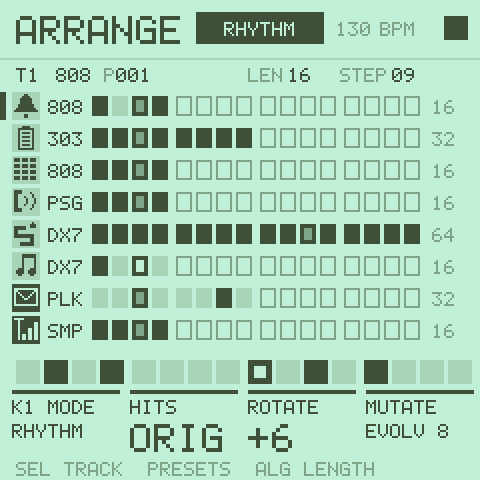
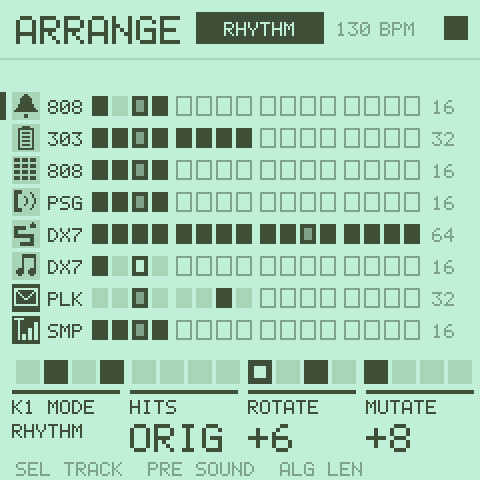
README and screenshots for the build that fits
Claude-Session: https://claude.ai/code/session_01GbuX9M3W5ALxwec7ku9GbY

diff --git a/README.md b/README.md
@@ -159,7 +159,8 @@ so export them first.
 ## Using 3310
 
 The FM-1 starts on the ARRANGE page. **SEQ** switches between ARRANGE and FM1 Open's own step editor.
-**HOME** opens FM1 Open's overview. All other buttons work as in FM1 Open.
+**HOME** brings you back to ARRANGE from any page; on ARRANGE it opens the project presets. All other
+buttons work as in FM1 Open.
 
 ### Knobs on the ARRANGE page
 
@@ -170,15 +171,16 @@ The FM-1 starts on the ARRANGE page. **SEQ** switches between ARRANGE and FM1 Op
 | **ALGORITHM** | Track length: 16, 32, 48 or 64 steps. |
 | **K1** | Mode: RHYTHM, GROOVE, SPACE or USER. The name shows inverted in the header. |
 | **K2 – K4** | The three parameters of the current mode. |
+| **EDIT + PRESETS** | Change the selected track's engine (DX7, 303, 808, PSG, Pluck, Sampler). |
 
-The info line under the header shows the selected track, its source, preset, length and the playing
-step. A pending length change is shown until the track reaches it.
+Each row shows the track's symbol, its engine and its length; the selected track has a bar at the left
+edge. Turning PRESETS shows the new preset number for a moment.
 
 ### Building your own knob map (USER mode)
 
 1. Turn **K1** to **USER**.
-2. **Hold EDIT** and turn **K2**, **K3** or **K4**. A list of the eleven parameters opens; turning scrolls
-   it.
+2. **Hold EDIT** and turn **K2**, **K3** or **K4** to step through the eleven parameters. The knob labels at
+   the bottom show your picks; a changed knob is marked with `*`.
 3. **Release EDIT** to keep the new map (**SAVED**), or press **PLAY while holding EDIT** to cancel
    (**CANCELLED**).
 
@@ -193,7 +195,7 @@ step. A pending length change is shown until the track reaches it.
 |---|---|---|---|
 | **HITS** | RHYTHM | ORIG, 0 … length | Spreads the hits evenly: step `s` plays when `(s × hits) mod length < hits`. **ORIG** is your own pattern and the left end of the knob. |
 | **ROTATE** | RHYTHM | 0 … length − 1 | Shifts the generated pattern around the loop. |
-| **MUTATE** | RHYTHM | ERODE 8 … HOLD … EVOLVE 8 | Changes the pattern at every loop wrap. ERODE removes up to 80 % of the hits, fresh each loop. EVOLVE moves hits to empty steps and the moves add up. HOLD restores the generated pattern. |
+| **MUTATE** | RHYTHM | −8 … HOLD … +8 | Changes the pattern at every loop wrap. Negative values ERODE: they remove up to 80 % of the hits, fresh each loop. Positive values EVOLVE: hits move to empty steps and the moves add up. HOLD restores the generated pattern. |
 | **GATE** | GROOVE | 1 … 15 | Note length of every step. Melodic tracks only. |
 | **SWING** | GROOVE | engine range | Global swing of the sequencer. |
 | **CHANCE** | GROOVE | 12 % … 100 % | Probability that a step plays, in eighths. |
@@ -204,7 +206,7 @@ step. A pending length change is shown until the track reaches it.
 | **VOLUME** | USER | engine range | Track volume. |
 
 When a parameter does not apply to the selected track, a short notice explains why, for example
-`CUTOFF: NOT ON DX7 TRACKS`.
+`NOT ON DX7`.
 
 ## What is not (yet) possible
 
@@ -212,6 +214,9 @@ When a parameter does not apply to the selected track, a short notice explains w
 
 - **Track length** is 16, 32, 48 or 64 steps. Free lengths from 1 to 128 would need a new sequencer.
 - **Ratchets and nudge** are not available, so GROOVE uses GATE and SWING instead.
+- **The FM-1's program memory is full.** FM1 Open alone leaves only a few hundred bytes free. To make room
+  for ARRANGE, 3310 drops FM1 Open's old overview page (ARRANGE replaces it) and its Bluetooth settings
+  page, and uses shorter help texts. Bluetooth MIDI itself still works with its saved settings.
 - **HITS, ROTATE, MUTATE and the USER map live in memory.** They reset when the FM-1 is switched off.
   What they produce (steps, chances and sends) is part of the project and is saved normally with SAVE.
 
@@ -322,7 +327,7 @@ in the firmware today.** The other screens use FM1 Open's own pages for now.
 | START is greyed out | The ready check on the installer page says why: wrong browser, page opened as a file, or no build yet. |
 | The update stopped halfway | Keep the cable in, power-cycle the FM-1, reconnect and run the installer again with force flash. |
 | The installer page says **NOT BUILT** | No build has finished yet. Wait for the cloud build, or build locally with `INSTALUJ-3310.bat`. |
-| A knob shows `… ONLY` or `NOT ON …` | That parameter does not apply to the selected track's sound source. Pick another track or mode. |
+| A knob shows `… ONLY` or `NOT ON DX7` | That parameter does not apply to the selected track's sound source. Pick another track or mode. |
 | Patterns reset after power-off | HITS, ROTATE, MUTATE and the USER map are not stored yet; press SAVE to keep the resulting steps. |
 
 ## Contributing
